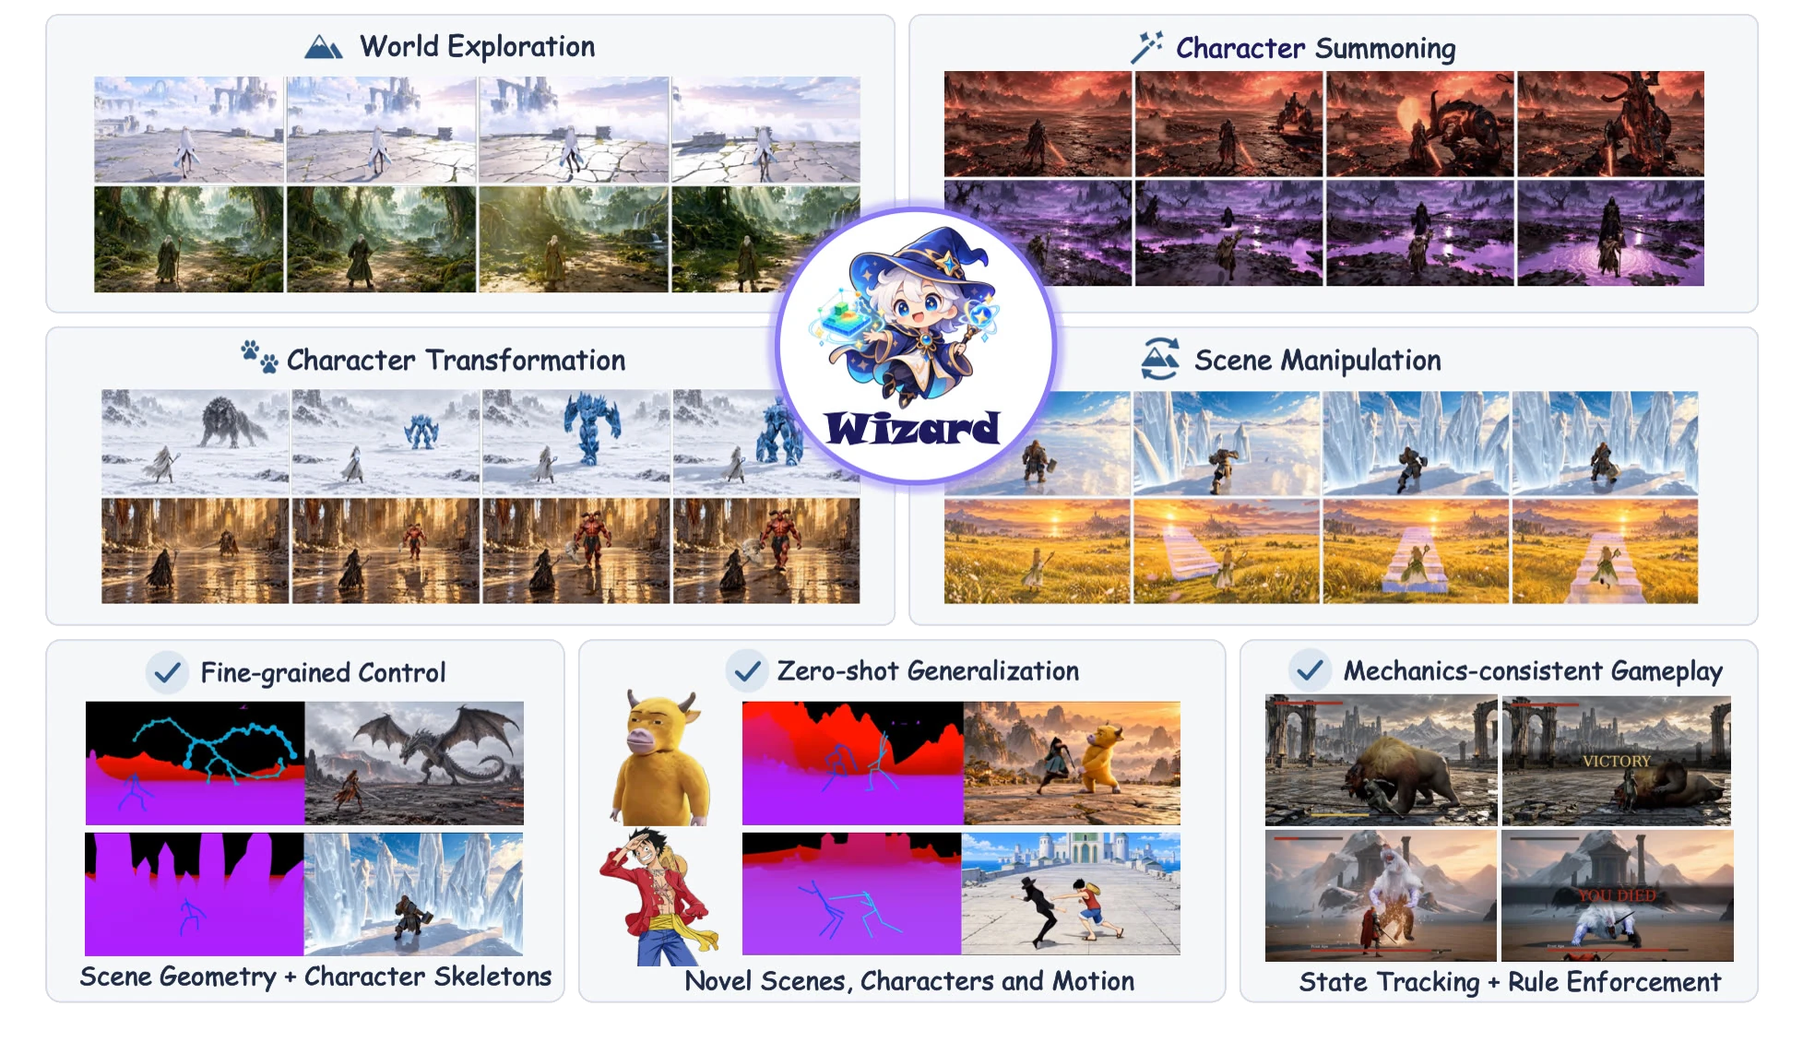
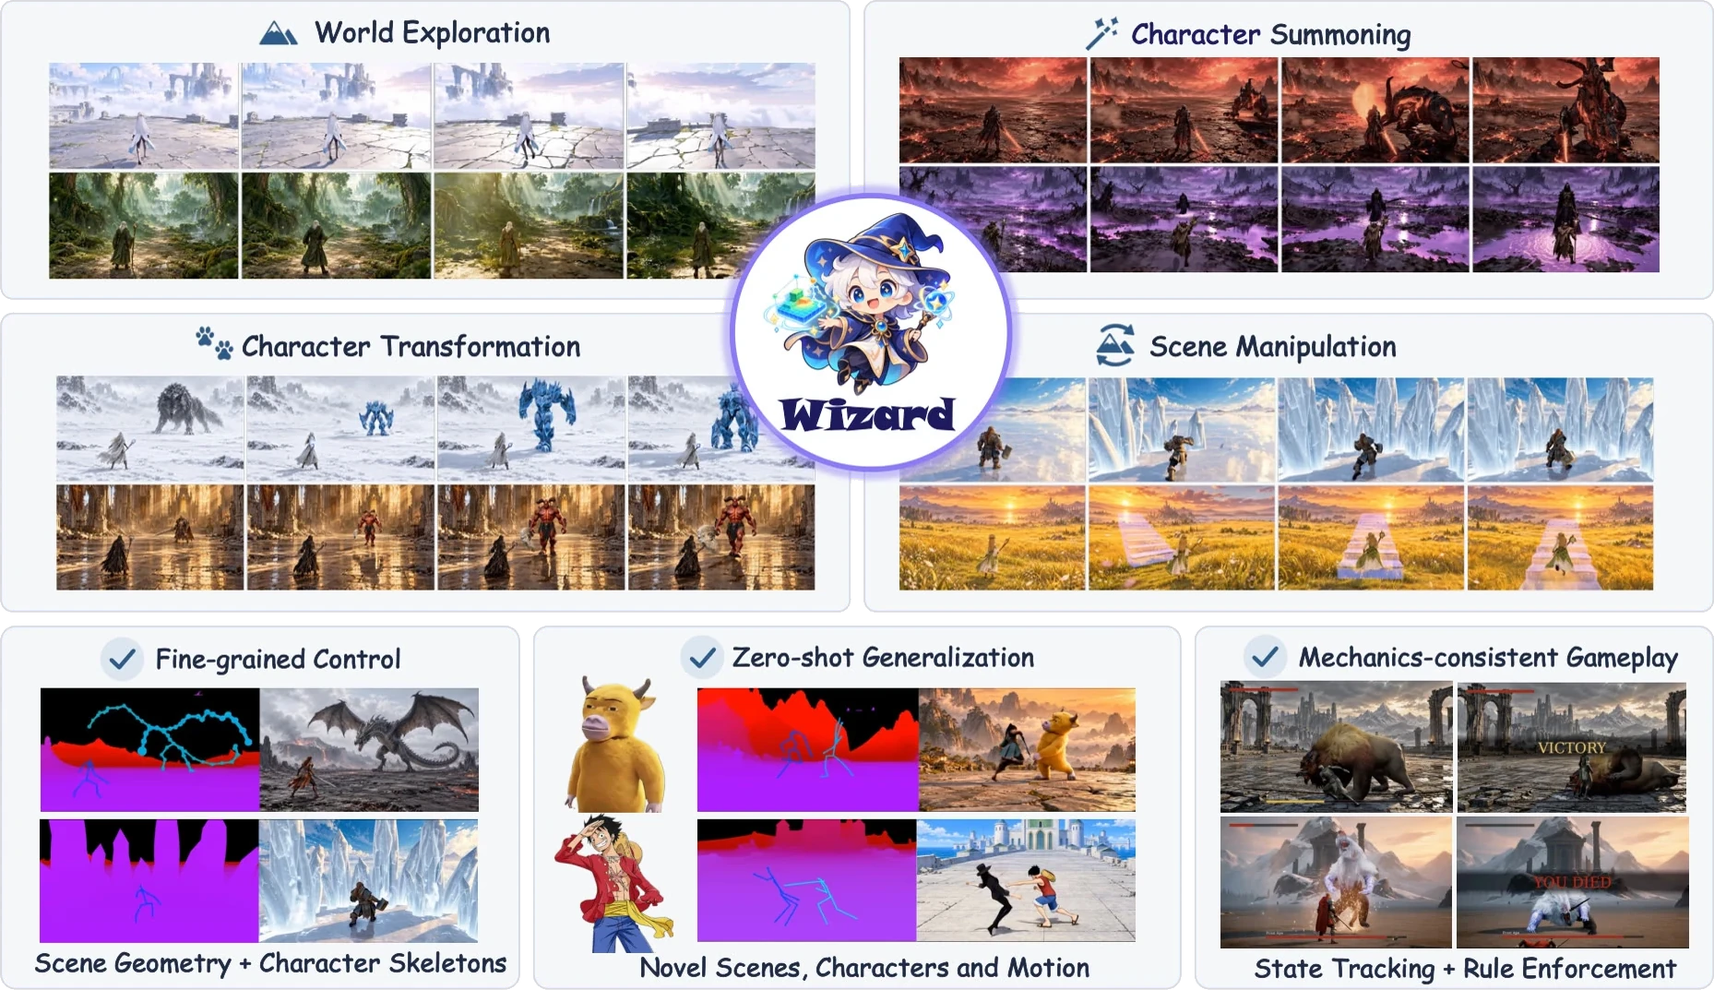
Video-first layout: dark panels for video zones, one shared grid, full-width capability clips, trimmed figures

diff --git a/index.html b/index.html
@@ -10,15 +10,17 @@
 <link rel="preconnect" href="https://fonts.gstatic.com" crossorigin>
 <link rel="stylesheet" href="https://fonts.googleapis.com/css2?family=Archivo:wdth,wght@125,300;125,500;125,700&family=Hanken+Grotesk:ital,wght@0,400;0,500;0,600;1,400&family=JetBrains+Mono:wght@400;500&display=swap">
 <style>
-/* (11-01 user: 换成浅色"冷雾菌落"配色 —— 冷雾白 #EEF5F0 / 菌落灰绿 #C7D8D0 / 冰雾蓝 #B8D4E7 / 菌落淡紫 #D8D0E6 / 标本灰蓝 #667D87)
-   Misty light page, text first. Cards are translucent frosted panels; paper figures sit on it as white sheets.
-   The trailer is the one big video; cases sit in one carousel; the gallery plays a clip only on hover or click. */
+/* (11-01 user: "冷雾菌落"配色 —— 冷雾白 #EEF5F0 / 菌落灰绿 #C7D8D0 / 冰雾蓝 #B8D4E7 / 菌落淡紫 #D8D0E6 / 标本灰蓝 #667D87)
+   (11-01 user chose direction A: 视频优先 + 深浅分区 + 统一宽度)
+   One grid: every block is --W wide and shares the same left and right edges.
+   Video zones (hero, capabilities + reshape, gallery) are dark rounded panels so the game footage keeps its punch;
+   reading zones (overview, method, data) sit on the light mist, where the paper figures blend in. */
 :root {
   --bg: #eef5f0; --card: rgba(255,255,255,.52); --card2: rgba(255,255,255,.78); --ink: #22303a; --muted: #536874; --faint: #7a8e98;
   --line: rgba(102,125,135,.18); --line2: rgba(102,125,135,.34); --accent: #4d6672; --accent-soft: rgba(216,208,230,.55);
   --mist-green: #c7d8d0; --mist-blue: #b8d4e7; --mist-violet: #d8d0e6; --slate: #667d87;
   --title: "Archivo", "Helvetica Neue", Arial, sans-serif; --sans: "Hanken Grotesk", "Helvetica Neue", Arial, sans-serif; --mono: "JetBrains Mono", ui-monospace, Menlo, monospace;
-  --max: 1040px; --r: 12px;
+  --W: 1080px; --max: calc(var(--W) + 40px); --r: 12px; --key: #fff;
   color-scheme: light;
 }
 * { box-sizing: border-box; }
@@ -37,7 +39,18 @@ a { color: var(--accent); text-underline-offset: 3px; }
 .wrap { max-width: var(--max); margin: 0 auto; padding-inline: max(20px, env(safe-area-inset-left, 0px)) max(20px, env(safe-area-inset-right, 0px)); }
 .kicker { font: 500 .68rem/1 var(--mono); letter-spacing: .24em; text-transform: uppercase; color: var(--accent); }
 .card { background: var(--card); border: 1px solid rgba(255,255,255,.7); border-radius: var(--r); box-shadow: 0 1px 0 rgba(255,255,255,.6) inset, 0 10px 30px -18px rgba(54,78,90,.35); backdrop-filter: blur(10px); -webkit-backdrop-filter: blur(10px); }
-.key { display: inline-block; font: 500 .68rem/1 var(--mono); padding: 4px 6px; border: 1px solid var(--line2); border-bottom-width: 2px; border-radius: 4px; background: #fff; color: var(--ink); margin-right: 3px; }
+.key { display: inline-block; font: 500 .68rem/1 var(--mono); padding: 4px 6px; border: 1px solid var(--line2); border-bottom-width: 2px; border-radius: 4px; background: var(--key); color: var(--ink); margin-right: 3px; }
+
+/* dark video zones: the same tokens, re-pointed */
+.zone-dark {
+  --bg: #10171c; --ink: #eef5f0; --muted: #a3b4bc; --faint: #74878f; --line: rgba(184,212,231,.12); --line2: rgba(184,212,231,.26);
+  --accent: #b8d4e7; --accent-soft: rgba(184,212,231,.10); --card: rgba(255,255,255,.04); --card2: rgba(255,255,255,.07); --slate: #9db3bd; --key: rgba(255,255,255,.08);
+  color-scheme: dark; color: var(--ink); margin: 84px 12px 0; border-radius: 28px; padding-bottom: 84px; overflow: hidden;
+  background: radial-gradient(60% 46% at 50% 0%, rgba(184,212,231,.14), transparent 70%), radial-gradient(40% 40% at 0% 60%, rgba(216,208,230,.08), transparent 70%),
+              radial-gradient(40% 40% at 100% 92%, rgba(199,216,208,.07), transparent 70%), #10171c; }
+.zone-dark .card { border-color: rgba(255,255,255,.07); box-shadow: none; }
+.zone-dark .tabs button[aria-selected="true"] small { color: #4d6672; }
+@media (max-width: 640px) { .zone-dark { margin-inline: 6px; border-radius: 20px; } }
 
 /* top bar */
 .bar { position: sticky; top: 0; z-index: 20; background: rgba(238,245,240,.72); backdrop-filter: blur(12px); -webkit-backdrop-filter: blur(12px); border-bottom: 1px solid var(--line); }
@@ -51,8 +64,9 @@ a { color: var(--accent); text-underline-offset: 3px; }
 @media (max-width: 560px) { .brand span { display: none; } }
 
 /* hero */
-.hero { text-align: center; padding-block: 48px 0; }
-.mascot { width: 132px; height: auto; display: block; margin: 0 auto; filter: drop-shadow(0 12px 26px rgba(102,125,135,.32)); }
+.hero { text-align: center; padding-top: 56px; }
+.hero.zone-dark { margin-top: 12px; }
+.mascot { width: 132px; height: auto; display: block; margin: 0 auto; filter: drop-shadow(0 12px 30px rgba(184,212,231,.30)); }
 /* (11-01 user: 小女巫轻轻上下浮动) */
 .mascot { animation: float 4.2s ease-in-out infinite; will-change: transform; }
 @keyframes float { 0%, 100% { transform: translateY(0); } 50% { transform: translateY(-9px); } }
@@ -73,8 +87,8 @@ a { color: var(--accent); text-underline-offset: 3px; }
 .btn.live { color: var(--ink); border-color: var(--slate); background: var(--card2); transition: background .2s, color .2s; }
 .btn.live:hover { background: var(--ink); color: var(--bg); }
 .btn.live:hover small { color: var(--mist-blue); }
-.film { margin: 36px auto 0; max-width: 920px; padding: 8px; }
-.film video { display: block; width: 100%; aspect-ratio: 16/9; border-radius: 7px; background: #1c262c; }
+.film { margin: 44px auto 0; }
+.film video { display: block; width: 100%; aspect-ratio: 16/9; border-radius: 14px; background: #0a0f12; box-shadow: 0 30px 80px -30px rgba(0,0,0,.8), 0 0 0 1px rgba(255,255,255,.06); }
 .stats { display: grid; grid-template-columns: repeat(4, minmax(0, 1fr)); gap: 10px; max-width: 920px; margin: 14px auto 0; }
 .stat { padding: 16px 14px; }
 .stat b { display: block; font: 500 1.5rem/1.1 var(--title); font-stretch: 125%; font-variant-numeric: tabular-nums; }
@@ -83,41 +97,42 @@ a { color: var(--accent); text-underline-offset: 3px; }
 
 /* sections */
 section { padding-top: 84px; }
-.sh { display: grid; gap: 10px; margin: 0 auto 22px; max-width: 920px; text-align: center; justify-items: center; }
-.sh p { max-width: 68ch; }
-.sh h2 { font: 300 clamp(1.25rem, 2.3vw, 1.7rem)/1.25 var(--title); font-stretch: 125%; letter-spacing: .12em; text-transform: uppercase; }
+.sh { display: grid; grid-template-columns: minmax(0, 5fr) minmax(0, 7fr); gap: 10px 56px; margin: 0 0 30px; text-align: left; align-items: end; }
+.sh > .kicker, .sh > h2 { grid-column: 1; }
+.sh > p { grid-column: 2; grid-row: 1 / span 2; max-width: 62ch; }
+@media (max-width: 820px) { .sh { grid-template-columns: minmax(0, 1fr); } .sh > p { grid-column: 1; grid-row: auto; } }
+.sh h2 { font: 300 clamp(1.4rem, 2.7vw, 2.05rem)/1.2 var(--title); font-stretch: 125%; letter-spacing: .12em; text-transform: uppercase; }
 .sh h2 b { font-weight: 700; }
 .sh p { color: var(--muted); }
 .lead { color: var(--muted); max-width: 72ch; font-size: 1.02rem; margin-inline: auto; }
 .lead b { color: var(--ink); font-weight: 500; }
 /* paper figures: the outer white is knocked out (tools/knockout.py), so the panels sit directly on the mist */
-.paper { padding: 0; }
+.paper { display: block; cursor: zoom-in; }
 .paper img { display: block; width: 100%; height: auto; filter: drop-shadow(0 10px 22px rgba(54,78,90,.16)); }
 /* overview / method intro: heading left, text right, together as wide as the figure below */
 .split { display: grid; grid-template-columns: minmax(0, 5fr) minmax(0, 7fr); gap: 20px 56px; align-items: start; margin-bottom: 30px; }
-.split .sh { text-align: left; justify-items: start; margin: 0; }
-.split .sh h2 { font-size: clamp(1.4rem, 2.7vw, 2.05rem); line-height: 1.2; }
+.split .sh { grid-template-columns: minmax(0, 1fr); margin: 0; }
 .split .lead { max-width: none; margin: 0; padding-top: 22px; }
 @media (max-width: 820px) { .split { grid-template-columns: minmax(0, 1fr); } .split .lead { padding-top: 0; } }
-.figcap { color: var(--muted); font-size: .82rem; margin-top: 10px; line-height: 1.55; text-align: center; }
+.figcap { color: var(--muted); font-size: .82rem; margin-top: 12px; line-height: 1.55; }
 .figcap b { color: var(--ink); font-weight: 600; }
 figure { margin: 0; }
 
 /* centred-bleed carousel (Genie 4): the active slide centred, neighbours peeking and dimmed, swipe or arrows */
-.carousel { --sw: min(570px, 86vw);   /* (10-30) same size as the reshape screen */ display: flex; gap: 22px; overflow-x: auto; scroll-snap-type: x mandatory; scroll-behavior: smooth; padding: 4px calc((100vw - var(--sw)) / 2) 6px; scrollbar-width: none; overscroll-behavior-x: contain; }
+.carousel { --sw: min(var(--W), 84vw);   /* (11-01) as wide as the grid: the videos lead */ position: relative; display: flex; gap: 28px; overflow-x: auto; scroll-snap-type: x mandatory; scroll-behavior: smooth; padding: 4px calc((100% - var(--sw)) / 2) 6px; scrollbar-width: none; overscroll-behavior-x: contain; }
 .carousel::-webkit-scrollbar { display: none; }
-.slide { flex: 0 0 var(--sw); scroll-snap-align: center; margin: 0; opacity: .35; transform: scale(.94); transition: opacity .35s, transform .35s; }
+.slide { flex: 0 0 var(--sw); scroll-snap-align: center; margin: 0; opacity: .3; transform: scale(.95); transition: opacity .35s, transform .35s; }
 .slide.on { opacity: 1; transform: none; }
-.slide .clip { position: relative; aspect-ratio: 16/9; border-radius: 12px; overflow: hidden; background: #1c262c; box-shadow: 0 18px 40px -22px rgba(54,78,90,.55); cursor: pointer; }
+.slide .clip { position: relative; aspect-ratio: 16/9; border-radius: 14px; overflow: hidden; background: #0a0f12; box-shadow: 0 30px 70px -34px rgba(0,0,0,.85), 0 0 0 1px rgba(255,255,255,.06); cursor: pointer; }
 .slide video, .slide .clip img { position: absolute; inset: 0; width: 100%; height: 100%; object-fit: cover; display: block; }
 .slide .zoom { position: absolute; right: 10px; top: 10px; font: 500 .68rem/1 var(--sans); color: #fff; background: rgba(0,0,0,.55); padding: 6px 9px; border-radius: 999px; opacity: 0; transition: opacity .2s; pointer-events: none; }
 .slide.on .zoom { opacity: 1; }
 .slide figcaption { display: grid; grid-template-columns: minmax(0, 1fr) auto; gap: 8px 24px; align-items: start; padding: 14px 2px 0; visibility: hidden; }
 .slide.on figcaption { visibility: visible; }
 @media (max-width: 640px) { .slide figcaption { grid-template-columns: minmax(0, 1fr); } }
-.slide h3 { font: 600 1rem/1.3 var(--sans); }
+.slide h3 { font: 600 1.06rem/1.3 var(--sans); }
 .slide h3 small { font: 500 .62rem/1 var(--mono); letter-spacing: .16em; text-transform: uppercase; color: var(--accent); margin-right: 10px; vertical-align: 2px; }
-.slide .line { color: var(--muted); font-size: .9rem; margin-top: 4px; }
+.slide .line { color: var(--muted); font-size: .92rem; margin-top: 4px; max-width: 62ch; }
 .slide .ins { border-top: 0; padding-top: 0; flex-wrap: nowrap; }
 .carnav { display: flex; align-items: center; justify-content: center; gap: 16px; margin-top: 18px; }
 .carnav > button { width: 36px; height: 36px; border-radius: 50%; border: 1px solid var(--line2); background: transparent; color: var(--ink); cursor: pointer; }
@@ -197,13 +212,17 @@ figure { margin: 0; }
 .code { margin-top: 10px; font: 400 .74rem/1.5 var(--mono); color: var(--faint); min-height: 1.5em; }
 .code b { color: var(--accent); font-weight: 500; }
 
-/* method: figure full width, text in two equal columns under it (symmetric) */
-.parts { display: grid; grid-template-columns: repeat(2, minmax(0, 1fr)); gap: 12px; margin-top: 14px; }
-@media (max-width: 720px) { .parts { grid-template-columns: minmax(0, 1fr); } }
-.parts > div { padding: 16px 18px; }
-.parts h3 { font: 600 .95rem/1.3 var(--sans); margin-bottom: 6px; }
-.parts h3 small { color: var(--accent); margin-right: 8px; font: 500 .72rem var(--mono); }
-.parts p { color: var(--muted); font-size: .9rem; }
+/* method: pipeline figure full width with its four parts in one row; the generator figure sits beside its two notes */
+.parts { display: grid; grid-template-columns: repeat(4, minmax(0, 1fr)); gap: 12px; margin-top: 18px; }
+@media (max-width: 1000px) { .parts { grid-template-columns: repeat(2, minmax(0, 1fr)); } }
+@media (max-width: 640px) { .parts { grid-template-columns: minmax(0, 1fr); } }
+.figrow { display: grid; grid-template-columns: minmax(0, 7fr) minmax(0, 5fr); gap: 28px; margin-top: 64px; align-items: center; }
+.figrow .stack { display: grid; gap: 12px; }
+@media (max-width: 860px) { .figrow { grid-template-columns: minmax(0, 1fr); } }
+.parts > div, .stack > div { padding: 16px 18px; }
+.parts h3, .stack h3 { font: 600 .95rem/1.3 var(--sans); margin-bottom: 6px; }
+.parts h3 small, .stack h3 small { color: var(--accent); margin-right: 8px; font: 500 .72rem var(--mono); }
+.parts p, .stack p { color: var(--muted); font-size: .88rem; }
 .mrow { display: grid; grid-template-columns: minmax(0, 5fr) minmax(0, 7fr); gap: 28px; align-items: start; }
 .mrow + .mrow { margin-top: 40px; }
 @media (max-width: 860px) { .mrow { grid-template-columns: minmax(0, 1fr); } }
@@ -224,7 +243,7 @@ tbody tr:last-child td { border-bottom: 0; color: var(--ink); font-weight: 600; 
 @media (max-width: 820px) { .gal { grid-template-columns: repeat(2, minmax(0, 1fr)); } }
 .gal figure { overflow: hidden; cursor: zoom-in; transition: border-color .2s; }
 .gal figure:hover { border-color: var(--line2); }
-.gal .clip { position: relative; aspect-ratio: 16/9; background: #1c262c; }
+.gal .clip { position: relative; aspect-ratio: 16/9; background: #0a0f12; }
 .gal .clip img, .gal .clip video { position: absolute; inset: 0; width: 100%; height: 100%; object-fit: cover; display: block; }
 .gal .clip img { opacity: .82; transition: opacity .2s; }
 .gal figure:hover .clip img { opacity: 1; }
@@ -257,7 +276,7 @@ dialog.lb p { color: #dfe8ec; text-align: center; font-size: .88rem; margin-top:
   </div>
 </nav>
 
-<header class="hero" id="top">
+<header class="hero zone-dark" id="top">
   <div class="wrap">
     <img class="mascot" src="assets/img/mascot.png" alt="Wizard mascot: a small wizard holding a world block and a star staff" width="132" height="127">
     <h1>WIZARD</h1>
@@ -272,7 +291,7 @@ dialog.lb p { color: #dfe8ec; text-align: center; font-size: .88rem; margin-top:
       <a class="btn live" href="https://arxiv.org/html/2610.40339" target="_blank" rel="noopener">arXiv <small>2610.40339</small></a>
       <span class="btn" aria-disabled="true">Code <small>soon</small></span>
     </div>
-    <div class="film card"><video id="trailer" src="assets/v/trailer.mp4?v=13c" poster="assets/v/trailer.jpg?v=13c" controls playsinline preload="metadata"></video></div>
+    <div class="film"><video id="trailer" src="assets/v/trailer.mp4?v=13c" poster="assets/v/trailer.jpg?v=13c" controls playsinline preload="metadata"></video></div>
   </div>
 </header>
 
@@ -281,11 +300,12 @@ dialog.lb p { color: #dfe8ec; text-align: center; font-size: .88rem; margin-top:
   <div class="wrap">
     <div class="split"><div class="sh"><span class="kicker">Overview</span><h2><b>Change the world</b> as you play.</h2></div>
     <p class="lead">Game world models can generate interactive video in real time, but a game needs more than walking around: a boss that appears and fights by its own rules, a creature that turns into another, ground that splits or rises on command. <b>Wizard</b> keeps the game state explicit: scene geometry for the world, an articulated skeleton for every character, and rules for the fight. Agents edit that state from one image, a typed instruction or a key press; a causal video model renders it at 24 FPS. Every scene and character on this page is new to the model.</p></div>
-    <figure style="margin-top:26px"><div class="paper"><img src="assets/img/fig1.webp" alt="Overview: world exploration, character summoning, character transformation and scene manipulation, built on fine-grained control, zero-shot generalization and mechanics-consistent gameplay." loading="lazy"></div>
+    <figure style="margin-top:26px"><a class="paper" href="assets/img/fig1.webp" target="_blank" rel="noopener" title="Open full size"><img src="assets/img/fig1.webp" alt="Overview: world exploration, character summoning, character transformation and scene manipulation, built on fine-grained control, zero-shot generalization and mechanics-consistent gameplay." loading="lazy"></a>
       <figcaption class="figcap"><b>Figure 1.</b> Four ways to play, built on fine-grained control, zero-shot generalization and mechanics-consistent gameplay.</figcaption></figure>
   </div>
 </section>
 
+<div class="zone-dark">
 <section id="capabilities">
   <div class="wrap">
     <div class="sh"><span class="kicker">Capabilities</span><h2><b>Four</b> ways to play</h2><p>Swipe or use the arrows. Each clip comes with the inputs that made it; click it to watch large.</p></div>
@@ -315,22 +335,25 @@ dialog.lb p { color: #dfe8ec; text-align: center; font-size: .88rem; margin-top:
     </div>
   </div>
 </section>
+</div>
 
 <section id="method">
   <div class="wrap">
     <div class="split"><div class="sh"><span class="kicker">Method</span><h2><b>Agents</b> keep the state. <b>The model</b> paints it.</h2></div>
     <p class="lead">A setup stage of under five minutes reconstructs the scene and characters, rigs skeletons and builds each character's motion set. During play, the framework updates motion, geometry and combat state, and the generator renders them.</p></div>
-    <figure><div class="paper"><img src="assets/img/fig3.webp" alt="Inference pipeline: (a) character animation, (b) scene manipulation, (c) state-aware combat control, (d) real-time video generation." loading="lazy"></div><figcaption class="figcap"><b>Figure 2.</b> Inference pipeline.</figcaption></figure>
+    <figure><a class="paper" href="assets/img/fig3.webp" target="_blank" rel="noopener" title="Open full size"><img src="assets/img/fig3.webp" alt="Inference pipeline: (a) character animation, (b) scene manipulation, (c) state-aware combat control, (d) real-time video generation." loading="lazy"></a><figcaption class="figcap"><b>Figure 2.</b> Inference pipeline.</figcaption></figure>
     <div class="parts">
       <div class="card"><h3><small>(a)</small>Character animation</h3><p>Qwen3-VL infers body structure; SAM2, TripoSG and UniRig give a labelled skeleton. Motions from CombatMotion, WildWorld and Elden Ring are retrieved by body structure and style, then retargeted limb chain by limb chain.</p></div>
       <div class="card"><h3><small>(b)</small>Scene manipulation</h3><p>MoGe-2 recovers geometry and camera. An OpenGL renderer draws the proxy, and Qwen3-VL-8B turns instructions into programs over geometric operators, from raising a platform to turning the world upside down.</p></div>
       <div class="card"><h3><small>(c)</small>State-aware combat</h3><p>The state tracks positions, poses, health, action phases and cooldowns. A planner simulates candidate attacks; a rule-based controller resolves hits, damage, reactions and knock-outs.</p></div>
       <div class="card"><h3><small>(d)</small>Real-time generation</h3><p>Wan2.2-TI2V-5B renders the proxies conditioned on the first frame, one reference per character and the retained history, at 24 FPS with two denoising steps.</p></div>
     </div>
-    <figure style="margin-top:48px"><div class="paper"><img src="assets/img/fig4.webp" alt="Video generator architecture and character-aware adaptive masking." loading="lazy"></div><figcaption class="figcap"><b>Figure 3.</b> Generator and character-aware masking.</figcaption></figure>
-    <div class="parts">
+    <div class="figrow">
+    <figure><a class="paper" href="assets/img/fig4.webp" target="_blank" rel="noopener" title="Open full size"><img src="assets/img/fig4.webp" alt="Video generator architecture and character-aware adaptive masking." loading="lazy"></a><figcaption class="figcap"><b>Figure 3.</b> Generator and character-aware masking.</figcaption></figure>
+    <div class="stack">
       <div class="card"><h3><small>Masking</small>Character-aware adaptive masking</h3><p>Each reference may attend only to its own character's skeleton-derived region, expanded by 25%. The masks follow the characters and reduce appearance leakage; on a transformation they block the old identity's cached tokens while the background and first-frame sink stay visible.</p></div>
       <div class="card"><h3><small>Speed</small>Causal adaptation and distillation</h3><p>Following Causal Forcing++: teacher forcing, consistency distillation with a 20-latent-frame window and a first-frame sink, then DMD on the student's own rollouts. Proxy conditions and gated references stay active throughout.</p></div>
+    </div>
     </div>
   </div>
 </section>
@@ -338,7 +361,7 @@ dialog.lb p { color: #dfe8ec; text-align: center; font-size: .88rem; margin-top:
 <section id="data">
   <div class="wrap">
     <div class="sh"><span class="kicker">Data</span><h2><b>50.3 hours</b> of proxy–video pairs</h2><p>Four sources, each adding what the others lack: diverse creature bodies, controlled synthetic events, real game footage and exact scripted fights.</p></div>
-    <figure><div class="paper"><img src="assets/img/fig2.webp" alt="Dataset overview and processing pipeline." loading="lazy"></div><figcaption class="figcap"><b>Figure 4.</b> Dataset overview and processing pipeline.</figcaption></figure>
+    <figure><a class="paper" href="assets/img/fig2.webp" target="_blank" rel="noopener" title="Open full size"><img src="assets/img/fig2.webp" alt="Dataset overview and processing pipeline." loading="lazy"></a><figcaption class="figcap"><b>Figure 4.</b> Dataset overview and processing pipeline.</figcaption></figure>
     <div class="tbl card">
       <table>
         <thead><tr><th>Source</th><th>Adds</th><th class="n">Hours</th></tr></thead>
@@ -354,7 +377,7 @@ dialog.lb p { color: #dfe8ec; text-align: center; font-size: .88rem; margin-top:
   </div>
 </section>
 
-<section id="gallery">
+<section id="gallery" class="zone-dark">
   <div class="wrap">
     <div class="sh"><span class="kicker">Gallery</span><h2><b>More</b> worlds</h2><p>Hover to preview, click to watch.</p></div>
     <div class="gal" id="gal"></div>

diff --git a/tools/knockout.py b/tools/knockout.py
@@ -1,4 +1,5 @@
-# Make the white that is connected to a figure's outer border transparent, with soft edges.
+# Make the white that is connected to a figure's outer border transparent, with soft edges, then trim the margin.
+# Usage: python3 tools/knockout.py in.jpg out.webp
 import sys
 import numpy as np
 from PIL import Image, ImageDraw, ImageFilter
@@ -25,6 +26,8 @@ un = (a - 255 * (1 - ca[..., None])) / ca[..., None]
 alpha[zone] = ca[zone]
 rgb[zone] = un[zone]
 alpha[bg] = 0
-out = np.dstack([np.clip(rgb, 0, 255), alpha * 255]).astype(np.uint8)
-Image.fromarray(out, "RGBA").save(dst, "WEBP", quality=90, method=6)
+out = Image.fromarray(np.dstack([np.clip(rgb, 0, 255), alpha * 255]).astype(np.uint8))
+# crop the empty margin so the figure's visible edges sit on the page grid
+out = out.crop(out.getchannel("A").point(lambda v: 255 if v > 8 else 0).getbbox())
+out.save(dst, "WEBP", quality=90, method=6)
 print(dst, f"{bg.mean():.0%} transparent")
